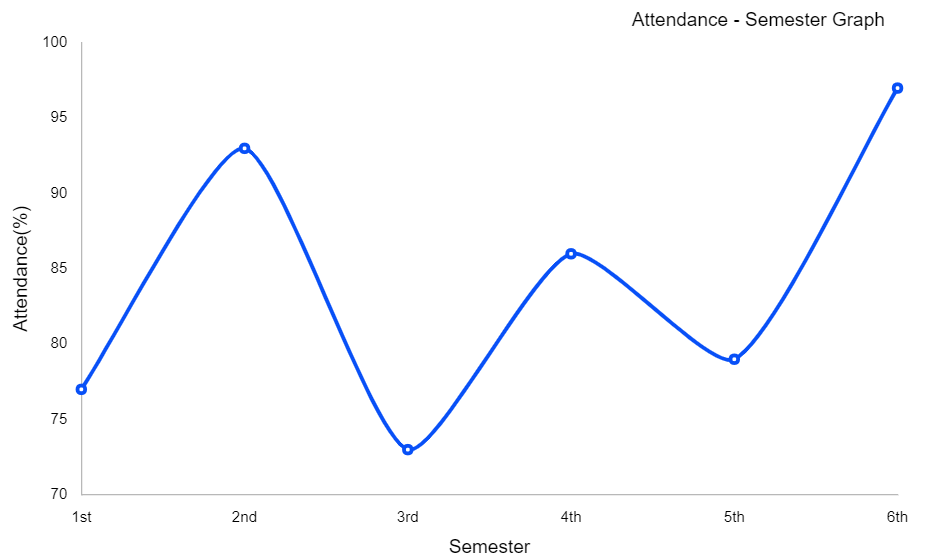
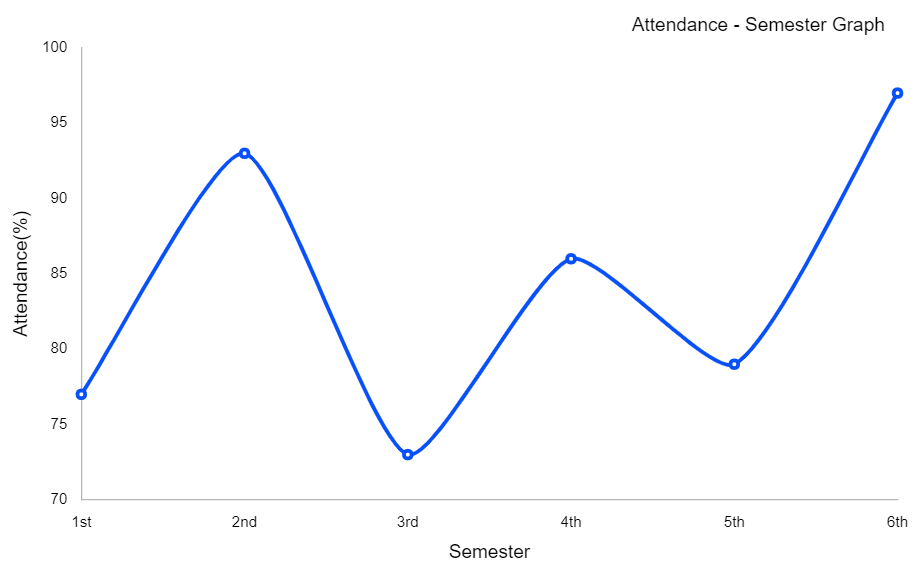
updated folder

diff --git a/src/pages/Home/home.css b/src/pages/Home/home.css
@@ -8,24 +8,139 @@
 }
 .home_cards {
   display: flex;
-  justify-content: space-around;
-  gap: 3px;
-  margin: 5px;
+  justify-content: space-between;
+  gap: 1px;
+  margin-bottom: 20px;
 }
+/* first card */
 .home_opinion {
+  border: none;
+  padding: auto;
+  border-radius: 20px;
+  width: 300px;
+  height: 40vh;
+  text-align: center;
+  background: linear-gradient(
+    135deg,
+    rgb(106, 171, 216) 0%,
+    rgb(113, 117, 212) 24%,
+    rgb(60, 47, 204) 49%,
+    rgb(13, 86, 218) 75%,
+    rgb(64, 26, 113) 100%
+  );
+  color: white;
+}
+.home_opinion h2 {
+  text-align: center;
+}
+
+.home_opinion_button {
+  font-size: 17px;
+
+  float: left;
+  font-weight: bold;
+  background: white;
+  padding: 8px;
+  margin-top: 50px;
+  margin-left: 90px;
+  width: 130px;
+  color: black;
   border: 1px solid black;
+  transition: 0.5s all;
+  cursor: pointer;
+}
+.home_opinion_button:hover {
+  transform: scale(0.9);
+  background: initial;
+  border: 1px solid white;
+  color: white;
+}
+
+/* second card */
+.home_graph {
+  display: inline;
+  border: none;
+  padding: 5px;
+  border-radius: 20px;
+  background: linear-gradient(
+    135deg,
+    rgb(106, 171, 216) 0%,
+    rgb(113, 117, 212) 24%,
+    rgb(60, 47, 204) 49%,
+    rgb(13, 86, 218) 75%,
+    rgb(64, 26, 113) 100%
+  );
+  color: white;
+}
+.home_graph button {
+  font-size: 17px;
+
+  float: left;
+  font-weight: bold;
+  background: white;
+  padding: 8px;
+  margin-top: 65px;
+  margin-left: 120px;
+  width: 130px;
+  color: black;
+  border: 1px solid black;
+  transition: 0.5s all;
+  cursor: pointer;
+}
+.home_graph button:hover {
+  transform: scale(0.9);
+  background: initial;
+  border: 1px solid white;
+  color: white;
+}
+
+.home_graph h2 {
+  text-align: center;
+  margin: 20px;
+}
+.home_graph p {
+  text-align: center;
+}
+
+/* third card */
+.home_paper {
+  border: none;
   padding: 10px;
   border-radius: 20px;
   width: 300px;
-  text-align: left;
-}
-
-.home_graph {
-  display: inline;
-  border: 1px solid black;
-  padding: 3px;
-  border-radius: 20px;
-}
-.home_graph h2 {
   text-align: center;
+  background: linear-gradient(
+    135deg,
+    rgb(106, 171, 216) 0%,
+    rgb(113, 117, 212) 24%,
+    rgb(60, 47, 204) 49%,
+    rgb(13, 86, 218) 75%,
+    rgb(64, 26, 113) 100%
+  );
+  color: white;
+}
+.home_paper h2 {
+  text-align: center;
+  margin-top: auto;
+}
+.home_paper button {
+  font-size: 17px;
+
+  float: left;
+  font-weight: bold;
+  background: white;
+  padding: 8px;
+  margin-top: 78px;
+  margin-left: 90px;
+  width: 130px;
+  color: black;
+  border: 1px solid black;
+  transition: 0.5s all;
+  cursor: pointer;
+}
+.home_paper button:hover {
+  transform: scale(0.9);
+  background: initial;
+  border: 1px solid white;
+  color: white;
 }

diff --git a/src/pages/Home/Home.jsx b/src/pages/Home/Home.jsx
@@ -1,13 +1,13 @@
 import { Table } from "antd";
+import { useNavigate } from "react-router-dom";
 import "./home.css";
-import graph from "../../assests/Attendance - Semester Graph.png";
+
 import userData from "./dataUser.json";
 const columns = [
   {
     title: "Student Name",
     dataIndex: "name",
     key: "name",
-    // render: (text) => <a>{text}</a>,
   },
   {
     title: "Roll No.",
@@ -45,29 +45,49 @@ const columns = [
 // const App = () => (
 //   <Table columns={columns} dataSource={userData} className="home_table" />
 // );
-function App() {
+function Home() {
+  const Navigate = useNavigate();
   return (
     <div className="home_section">
       <h2 className="home_profile">Student Profile:</h2>
       <Table columns={columns} dataSource={userData} className="home_table" />
       <div className="home_cards">
         <div className="home_opinion">
-          <h2>Review by Teacher's</h2>
+          <h2>Review </h2>
           <p>
-            Hardworking personality, full of enthusisam <br />
-            and great Progress but can't able to maintain its Prgress
-            continously
+            Excellent Personality with Funcky looks. Little bit shy during
+            lectures, but quickly responses....
           </p>
+          <button
+            className="home_opinion_button"
+            onClick={() => Navigate("/dashboard/review")}
+          >
+            Read More
+          </button>
         </div>
         <div className="home_graph">
           <h2>Attendance - Semester Graph</h2>
-          <img src={graph} alt="graph" height={210} width={400} />
+          <p>
+            <i>
+              ( Attendence Graph form <br />
+              Ist Semester upto Current Semester)
+            </i>
+          </p>
+          <button onClick={() => Navigate("/dashboard/attendance")}>
+            Click Here
+          </button>
         </div>
         <div className="home_paper">
-          <h2>Academics Performance</h2>
+          <h2>Subject Credits</h2>
+          <p>
+            <i>(Subject Credit is show below using Pie-Chart )</i>
+          </p>
+          <button onClick={() => Navigate("/dashboard/chart")}>
+            Click Here
+          </button>
         </div>
       </div>
     </div>
   );
 }
-export default App;
+export default Home;

diff --git a/src/index.js b/src/index.js
@@ -9,7 +9,10 @@ import Dashboard from "./pages/Dashboard/dashboard";
 import Home from "./pages/Home/Home";
 import Contact from "./pages/Contact/contact";
 import Notification from "./pages/Notification/notification";
+import Review from "./pages/Review/review";
 import { Content } from "antd/es/layout/layout";
+import Attendance from "./pages/Attendance/Attendance";
+import Chart from "./pages/chart/chart";
 
 const root = ReactDOM.createRoot(document.getElementById("root"));
 root.render(
@@ -20,7 +23,10 @@ root.render(
         <Route path="login" element={<Login />} />
         <Route path="dashboard" element={<Dashboard />}>
           <Route path="home" element={<Home />} />
+          <Route path="review" element={<Review />} />
+          <Route path="chart" element={<Chart />} />
           <Route path="contact" element={<Contact />} />
+          <Route path="attendance" element={<Attendance />} />
           <Route path="notification" element={<Notification />} />
         </Route>
       </Routes>

diff --git a/src/pages/Review/review.jsx b/src/pages/Review/review.jsx
@@ -1,0 +1,24 @@
+import React from "react";
+import "./review.css";
+function review() {
+  return (
+    <div className="review_top">
+      <div className="review_head">
+        <h2>Review's by Professors</h2>
+      </div>
+      <div className="review_feedback">
+        <h2>
+          <ul typeof="disc">
+            <li>Little bit shy during lectures, but quickly responses.</li>
+            <li>Great athletism and Hard Working.</li>
+            <li>Highly enthusiastic towards sports and Cultural Events.</li>
+            <li> Nice Communication skills with good behaviour</li>
+            <li>Ambitious for his dreams and good leadership qualities</li>
+          </ul>
+        </h2>
+      </div>
+    </div>
+  );
+}
+
+export default review;

diff --git a/src/pages/Dashboard/dashboard.jsx b/src/pages/Dashboard/dashboard.jsx
@@ -1,6 +1,6 @@
 import { useEffect, useState } from "react";
 import { useNavigate, Outlet } from "react-router-dom";
-import Logo from "../../assests/logocuh.png";
+import Logo from "../../assests/ncuhlogo.png";
 import Image from "../../assests/tree.jpg";
 import "./dashboard.css";
 import { Menu } from "antd";

diff --git a/src/pages/Dashboard/dashboard.css b/src/pages/Dashboard/dashboard.css
@@ -24,7 +24,7 @@
 
 .cuh_logo {
   height: 90px;
-  width: 110px;
+  width: 500px;
   gap: 20px;
   margin: 0;
   padding: 0;
@@ -107,7 +107,7 @@
   display: flex;
   justify-content: space-around;
   align-items: center;
-  gap: 5px;
+  gap: -7px;
 }
 .dashboard_profile img {
   border-radius: 50%;

diff --git a/src/pages/chart/chart.jsx b/src/pages/chart/chart.jsx
@@ -1,0 +1,12 @@
+import React from "react";
+import pie from "../../assests/pie-chart (1).png";
+import "./chart.css";
+function chart() {
+  return (
+    <div>
+      <img src={pie} alt="Image" height={250} className="chart" />
+    </div>
+  );
+}
+
+export default chart;

diff --git a/src/pages/Attendance/Attendance.jsx b/src/pages/Attendance/Attendance.jsx
@@ -1,0 +1,12 @@
+import React from "react";
+import image from "../../assests/Attendance - Semester Graph.png";
+
+function Attendance() {
+  return (
+    <div>
+      <img src={image} alt="Attendance" />
+    </div>
+  );
+}
+
+export default Attendance;

diff --git a/src/pages/Login/login.css b/src/pages/Login/login.css
@@ -16,7 +16,7 @@
   flex-direction: row;
   background: linear-gradient(
     150deg,
-    rgba(71, 191, 242, 0.5) -5.91%,
+    rgba(12, 134, 220, 0.5) -5.91%,
     rgba(57, 224, 199, 0.5) 111.58%
   );
   box-shadow: 5px 5px rgba(0, 0, 0, 0.3);

diff --git a/src/pages/Review/review.css b/src/pages/Review/review.css
@@ -1,0 +1,8 @@
+.review_head {
+  margin: 10px;
+  background-color: royalblue;
+  padding: 4px 15px;
+  border: 1px solid white;
+  border-radius: 20px;
+  color: white;
+}

diff --git a/src/pages/Attendance/attendance.css b/src/pages/Attendance/attendance.css
@@ -1,0 +1,5 @@
+img {
+  float: center;
+  padding: auto;
+  margin: 10px;
+}

diff --git a/src/pages/chart/chart.css b/src/pages/chart/chart.css
@@ -1,0 +1,4 @@
+.chart {
+  width: 150vh;
+  height: 83vh;
+}
